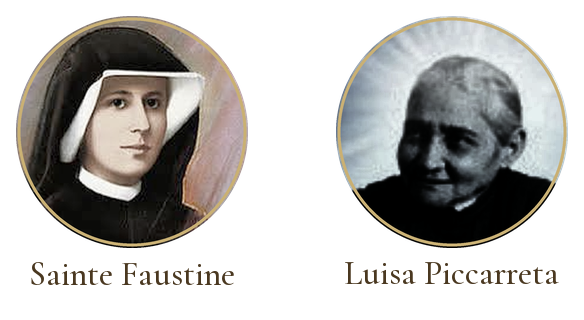
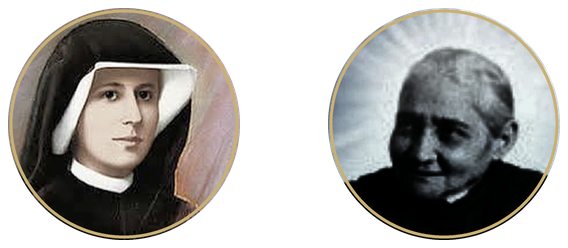
Accueil : mise en page « A » (titre, ligne en italique, devise), diptyque sans noms
- Diptyque régénéré sans texte (284 × 124, 2x 568 × 248) ; alt « Sainte
  Faustine et Luisa Piccarreta ».
- Sous l'image : « L'Évangile du jour » (1,9 rem, 500) ; « à la lumière de
  sainte Faustine et de Luisa Piccarreta » en italique (espaces insécables
  dans les noms) ; devise « — Miséricorde · Divine Volonté — » en petites
  capitales, #8a6d2f (contraste 4,67:1 sur #fdfaf2).
- Service worker : static/_essais/ jamais mis en cache ; .gitignore idem.
- Versions : styles.css v10, diptyque v2, cache du service worker v11.

diff --git a/static/styles.css b/static/styles.css
@@ -54,11 +54,10 @@ body {
     text-align: center;
 }
 
-/* Même portrait que celui du diptyque : vertical, donc plus étroit que
-   l'ancienne photo en paysage, pour ne pas occuper tout l'écran de connexion. */
+/* Diptyque des deux médaillons, comme à l'accueil (make_diptyque.py) */
 .login-diptyque {
     display: block;
-    width: 292px;
+    width: 284px;
     max-width: 100%;
     height: auto;
     margin: 0 auto 0.6rem;
@@ -153,11 +152,10 @@ body {
     text-align: center;
 }
 
-/* Diptyque des portraits (Luisa, Sainte Faustine) */
 /* Diptyque fixe de l'accueil (image générée par make_diptyque.py) */
 .diptyque-accueil {
     display: block;
-    width: 292px;
+    width: 284px;
     max-width: 100%;
     height: auto;
     margin: 0 auto 0.55rem;
@@ -168,6 +166,7 @@ body {
     display: none;
 }
 
+/* Portrait de la source interrogée, affiché pendant et après l'éclairage */
 .diptyque {
     --largeur-portrait: 138px;
     display: flex;
@@ -245,18 +244,32 @@ body {
     font-style: italic;
 }
 
-/* Texte d'accueil : une phrase complète (plus longue que l'ancien titre),
-   puis la devise en italique, plus petite */
+/* Texte d'accueil, sur trois niveaux : titre, ligne en italique, devise */
 .titre-accueil {
-    font-size: 1.75rem;
-    line-height: 1.22;
-    margin: 0 auto 0.45rem;
-    max-width: 22em;
+    font-size: 1.9rem;
+    font-weight: 500;
+    margin: 0 0 0.35rem;
 }
 
 .sous-titre-accueil {
-    font-size: 1.05rem;
-    letter-spacing: 0.3px;
+    font-family: 'Cormorant Garamond', Georgia, serif;
+    font-size: 1.1rem;
+    font-style: italic;
+    font-weight: 400;
+    line-height: 1.35;
+    color: #4a3820;
+    margin: 0 auto;
+    max-width: 24em;
+}
+
+/* Devise : petites capitales dorées (#8a6d2f, contraste 4,67:1 sur #fdfaf2) */
+.devise-accueil {
+    font-family: 'Cormorant Garamond', Georgia, serif;
+    font-size: 0.9rem;
+    font-variant: small-caps;
+    letter-spacing: 2px;
+    color: #8a6d2f;
+    margin: 0.75rem 0 2rem;
 }
 
 /* Bloc date + contexte liturgique : groupés visuellement */

diff --git a/templates/index.html b/templates/index.html
@@ -4,7 +4,7 @@
     <meta charset="UTF-8"/>
     <meta name="viewport" content="width=device-width, initial-scale=1.0"/>
     <title>Évangile du jour — Miséricorde et Divine Volonté</title>
-    <link rel="stylesheet" href="/static/styles.css?v=9"/>
+    <link rel="stylesheet" href="/static/styles.css?v=10"/>
     <link rel="stylesheet" href="https://cdn.jsdelivr.net/npm/@tabler/icons-webfont@2.47.0/tabler-icons.min.css"/>
 
     <link rel="apple-touch-icon" sizes="180x180" href="/static/icon-180.png">
@@ -28,9 +28,9 @@
 
         <!-- Accueil : les deux saintes. Dès qu'un éclairage est demandé, le
              portrait de la seule source interrogée prend le relais. -->
-        <img id="diptyque-accueil" class="diptyque-accueil" src="/static/diptyque.png?v=1"
-             srcset="/static/diptyque.png?v=1 1x, /static/diptyque@2x.png?v=1 2x"
-             width="292" height="160" alt="Sainte Faustine et Luisa Piccarreta"/>
+        <img id="diptyque-accueil" class="diptyque-accueil" src="/static/diptyque.png?v=2"
+             srcset="/static/diptyque.png?v=2 1x, /static/diptyque@2x.png?v=2 2x"
+             width="284" height="124" alt="Sainte Faustine et Luisa Piccarreta"/>
         <div class="diptyque diptyque-cache" id="diptyque">
             <span class="portrait" data-source="luisa">
                 <img src="/static/luisa.jpg?v=6" alt="Luisa Piccarreta"/>
@@ -41,8 +41,9 @@
             </span>
             {% endif %}
         </div>
-        <h1 class="titre titre-accueil">L'Évangile du jour à la lumière de sainte Faustine et de Luisa Piccarreta</h1>
-        <p class="sous-titre sous-titre-accueil">Miséricorde et Divine Volonté</p>
+        <h1 class="titre titre-accueil">L'Évangile du jour</h1>
+        <p class="sous-titre-accueil">à la lumière de sainte&nbsp;Faustine et de Luisa&nbsp;Piccarreta</p>
+        <p class="devise-accueil">— Miséricorde · Divine Volonté —</p>
 
         <div id="ecran-choix" class="ecran-choix">
             <div class="bloc-choix">

diff --git a/templates/login.html b/templates/login.html
@@ -4,7 +4,7 @@
     <meta charset="UTF-8"/>
     <meta name="viewport" content="width=device-width, initial-scale=1.0"/>
     <title>Accès protégé — Évangile du jour</title>
-    <link rel="stylesheet" href="/static/styles.css?v=9"/>
+    <link rel="stylesheet" href="/static/styles.css?v=10"/>
 
     <link rel="apple-touch-icon" sizes="180x180" href="/static/icon-180.png">
     <link rel="icon" type="image/png" sizes="192x192" href="/static/icon-192.png">
@@ -24,9 +24,9 @@
 </head>
 <body class="page-login">
     <main class="login-container">
-        <img class="login-diptyque" src="/static/diptyque.png?v=1"
-             srcset="/static/diptyque.png?v=1 1x, /static/diptyque@2x.png?v=1 2x"
-             width="292" height="160" alt="Sainte Faustine et Luisa Piccarreta"/>
+        <img class="login-diptyque" src="/static/diptyque.png?v=2"
+             srcset="/static/diptyque.png?v=2 1x, /static/diptyque@2x.png?v=2 2x"
+             width="284" height="124" alt="Sainte Faustine et Luisa Piccarreta"/>
         <h1 class="login-title">Accès protégé</h1>
         <p class="login-subtitle">Veuillez saisir le mot de passe pour accéder à l'application.</p>
 

diff --git a/static/sw.js b/static/sw.js
@@ -2,17 +2,17 @@
 // Stratégie : "network-first" sur la navigation, avec repli sur le cache hors-ligne.
 // Les requêtes API (POST) ne sont jamais mises en cache.
 
-const CACHE = "evangile-ldc-v10";
+const CACHE = "evangile-ldc-v11";
 const SHELL = [
   "/",
-  "/static/styles.css?v=9",
+  "/static/styles.css?v=10",
   "/static/luisa.jpg?v=6",
   "/static/faustine.jpg?v=6",
   "/static/icon-192.png",
   "/static/icon-512.png",
   "/static/manifest.json?v=2",
-  "/static/diptyque.png?v=1",
-  "/static/diptyque@2x.png?v=1",
+  "/static/diptyque.png?v=2",
+  "/static/diptyque@2x.png?v=2",
 ];
 
 self.addEventListener("install", (event) => {
@@ -36,6 +36,8 @@ self.addEventListener("fetch", (event) => {
 
   // Ne gérer que les GET ; laisser passer les POST (API) au réseau directement.
   if (req.method !== "GET") return;
+  // Fichiers d'essai (static/_essais/, hors dépôt) : jamais mis en cache.
+  if (new URL(req.url).pathname.startsWith("/static/_essais/")) return;
 
   event.respondWith(
     fetch(req)

diff --git a/make_diptyque.py b/make_diptyque.py
@@ -8,8 +8,8 @@ make_diptyque.py — Génère l'image d'accueil : deux médaillons côte à côt
 Les deux portraits reçoivent le même traitement : recadrage carré en buste,
 à la même échelle de visage ; harmonisation de luminosité et de saturation
 (fonctions de `make_portraits.py`) ; découpe ronde lissée ; bordure fine
-dorée (#c9b074, celle des portraits de l'application). Le nom de chaque sainte
-est écrit dessous en Cormorant Garamond, la police des titres de l'app.
+dorée (#c9b074, celle des portraits de l'application). L'image ne contient
+aucun texte : les noms figurent dans la page (texte d'accueil, attribut alt).
 
 Sources :
     Sainte Faustine  data/faustine/sfi.jpg    (722 × 423)
@@ -17,15 +17,11 @@ Sources :
                      icônes PWA, plus grand et mieux cadré que logo.jpg.
 Les icônes PWA ne sont pas touchées (voir make_icons.py).
 
-La police (licence SIL OFL) est téléchargée au premier lancement depuis le
-dépôt Google Fonts dans .cache/fonts/ (ignoré par Git).
-
     python make_diptyque.py
 """
 import os
-import urllib.request
 
-from PIL import Image, ImageDraw, ImageFont
+from PIL import Image, ImageDraw
 
 from make_portraits import harmoniser, luminance, saturation
 
@@ -36,12 +32,9 @@ SORTIE = os.path.join(RACINE, "static")
 DIAMETRE = 116          # médaillon
 BORDURE = 1.5           # épaisseur de la bordure
 ECART = 44              # espace entre les deux médaillons
-MARGE = 8               # marge autour de l'ensemble
-TAILLE_NOM = 17         # corps du nom
-ESPACE_NOM = 7          # entre le médaillon et le nom
+MARGE = 4               # marge autour de l'ensemble
 
 OR = (201, 176, 116, 255)           # #c9b074
-ENCRE = (74, 56, 32, 255)           # #4a3820, couleur des sous-titres
 
 #: Recadrages carrés (x0, y0, x1, y1), en buste, réglés à l'œil pour que les
 #: deux visages aient la même taille dans le médaillon (le voile de Sainte
@@ -51,21 +44,7 @@ PORTRAITS = [
     ("Luisa Piccarreta", ("static", "luisa_icon.jpg"), (0, 0, 388, 388)),
 ]
 
-POLICE_URL = ("https://raw.githubusercontent.com/google/fonts/main/ofl/"
-              "cormorantgaramond/CormorantGaramond%5Bwght%5D.ttf")
-POLICE = os.path.join(RACINE, ".cache", "fonts", "CormorantGaramond[wght].ttf")
-GRAISSE = 500           # comme les titres de l'app (font-weight: 500)
 SURECHANTILLONNAGE = 4  # découpe ronde et bordure dessinées en 4x puis réduites
-
-
-def police(taille):
-    if not os.path.exists(POLICE):
-        os.makedirs(os.path.dirname(POLICE), exist_ok=True)
-        print("[..] Téléchargement de Cormorant Garamond (OFL)")
-        urllib.request.urlretrieve(POLICE_URL, POLICE)
-    f = ImageFont.truetype(POLICE, taille)
-    f.set_variation_by_axes([GRAISSE])
-    return f
 
 
 def medaillon(source, boite, diametre, bordure):
@@ -89,20 +68,10 @@ def medaillon(source, boite, diametre, bordure):
 def composer(echelle):
     d = DIAMETRE * echelle
     marge, ecart = MARGE * echelle, ECART * echelle
-    fonte = police(TAILLE_NOM * echelle)
-    hauteur_nom = fonte.getbbox("Ag")[3]
-    largeur = 2 * d + ecart + 2 * marge
-    hauteur = marge + d + ESPACE_NOM * echelle + hauteur_nom + marge
-    toile = Image.new("RGBA", (largeur, hauteur), (0, 0, 0, 0))
-    dessin = ImageDraw.Draw(toile)
-
+    toile = Image.new("RGBA", (2 * d + ecart + 2 * marge, d + 2 * marge), (0, 0, 0, 0))
     for i, (nom, source, boite) in enumerate(PORTRAITS):
         disque, portrait = medaillon(source, boite, d, BORDURE * echelle)
-        x = marge + i * (d + ecart)
-        toile.alpha_composite(disque, (x, marge))
-        centre = x + d / 2
-        dessin.text((centre, marge + d + ESPACE_NOM * echelle), nom,
-                    font=fonte, fill=ENCRE, anchor="mt")
+        toile.alpha_composite(disque, (marge + i * (d + ecart), marge))
         if echelle == 1:
             print("[OK] %-17s luminance %.1f  saturation %.1f"
                   % (nom, luminance(portrait), saturation(portrait)))
